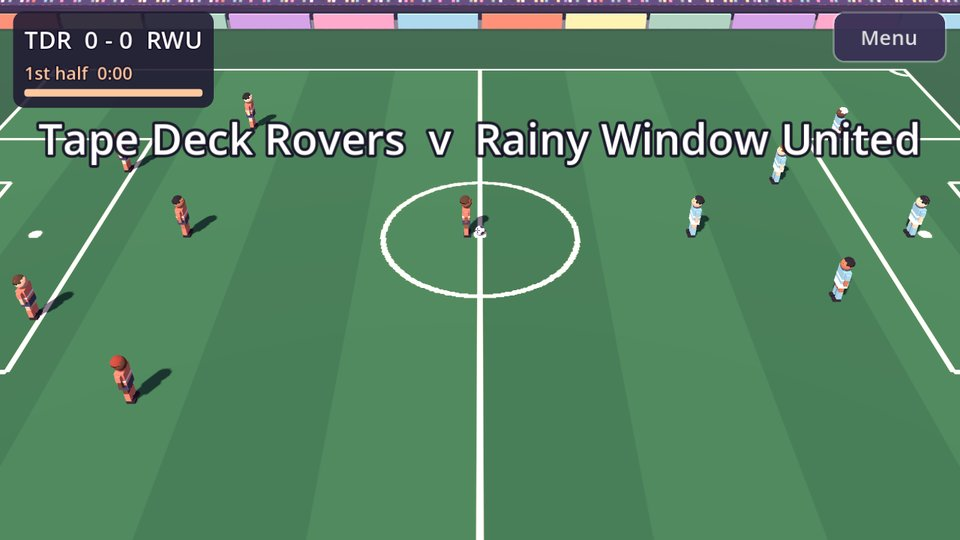
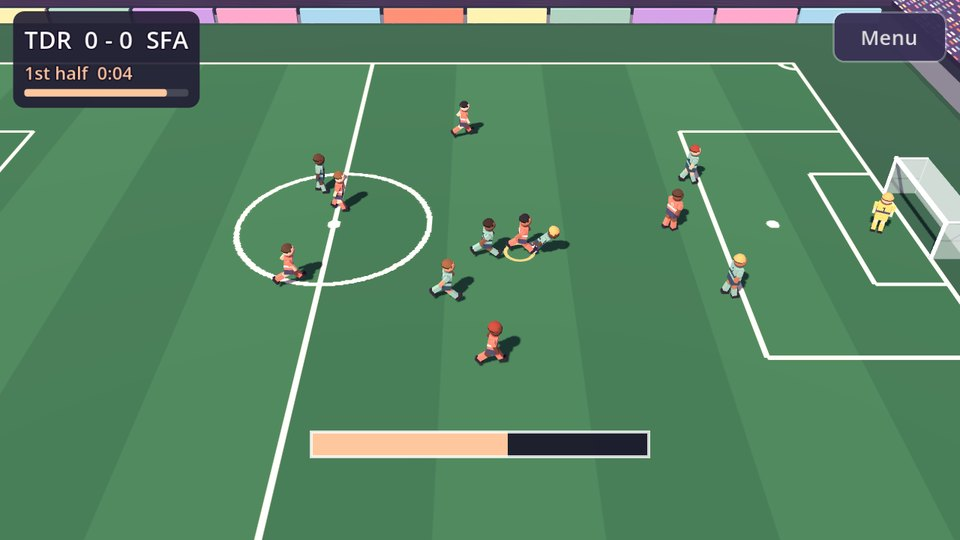
Lo-Fi League card: v0.3.0 picture, Opponent and save slots in the text, no Source link
Claude-Session: https://claude.ai/code/session_0117TTYAvLaCdhXR6naEUqqg

diff --git a/index.html b/index.html
@@ -99,12 +99,12 @@ footer{margin-top:40px;color:var(--soft);font-size:14px;text-align:center}
 </article>
 
 <article class="card" data-repo="lo-fi-league">
-<a class="shot" href="lo-fi-league/"><img src="images/lo-fi-league.jpg" alt="Lo-Fi League: a 7 a side soccer match at kickoff" width="960" height="540" loading="lazy"></a>
+<a class="shot" href="lo-fi-league/"><img src="images/lo-fi-league.jpg?v=0.3.0" alt="Lo-Fi League: a player shoots at goal with the shot meter filling, the keeper in yellow" width="960" height="540" loading="lazy"></a>
 <div class="body">
 <div class="top"><h2><a href="lo-fi-league/">Lo-Fi League</a></h2><span class="tag">Laid-back 7 a side soccer</span></div>
-<p class="desc">Pick a fictional club and play a relaxed match or a whole league season under a sunset sky, with lo-fi beats in the background.</p>
-<p class="meta">Browser and Android<span class="ver"></span> <span class="upd">· Updated <time datetime="2026-11-15T14:26-06:00">Nov 15, 2026, 2:26 PM CT</time></span></p>
-<div class="actions"><a class="btn" href="lo-fi-league/">Open game page</a><a class="src" href="https://github.com/bclark10121-cloud/lo-fi-league">Source on GitHub</a></div>
+<p class="desc">Pick a fictional club and play a relaxed match or a whole league season under a sunset sky, with lo-fi beats in the background. Easy, Normal or Hard opponents and five save slots. Plays with touch, a keyboard or an Xbox controller.</p>
+<p class="meta">Browser and Android<span class="ver"> · Version 0.3.0</span> <span class="upd">· Updated <time datetime="2026-11-15T23:45-06:00">Nov 15, 2026, 11:45 PM CT</time></span></p>
+<div class="actions"><a class="btn" href="lo-fi-league/">Open game page</a></div>
 </div>
 </article>
 
